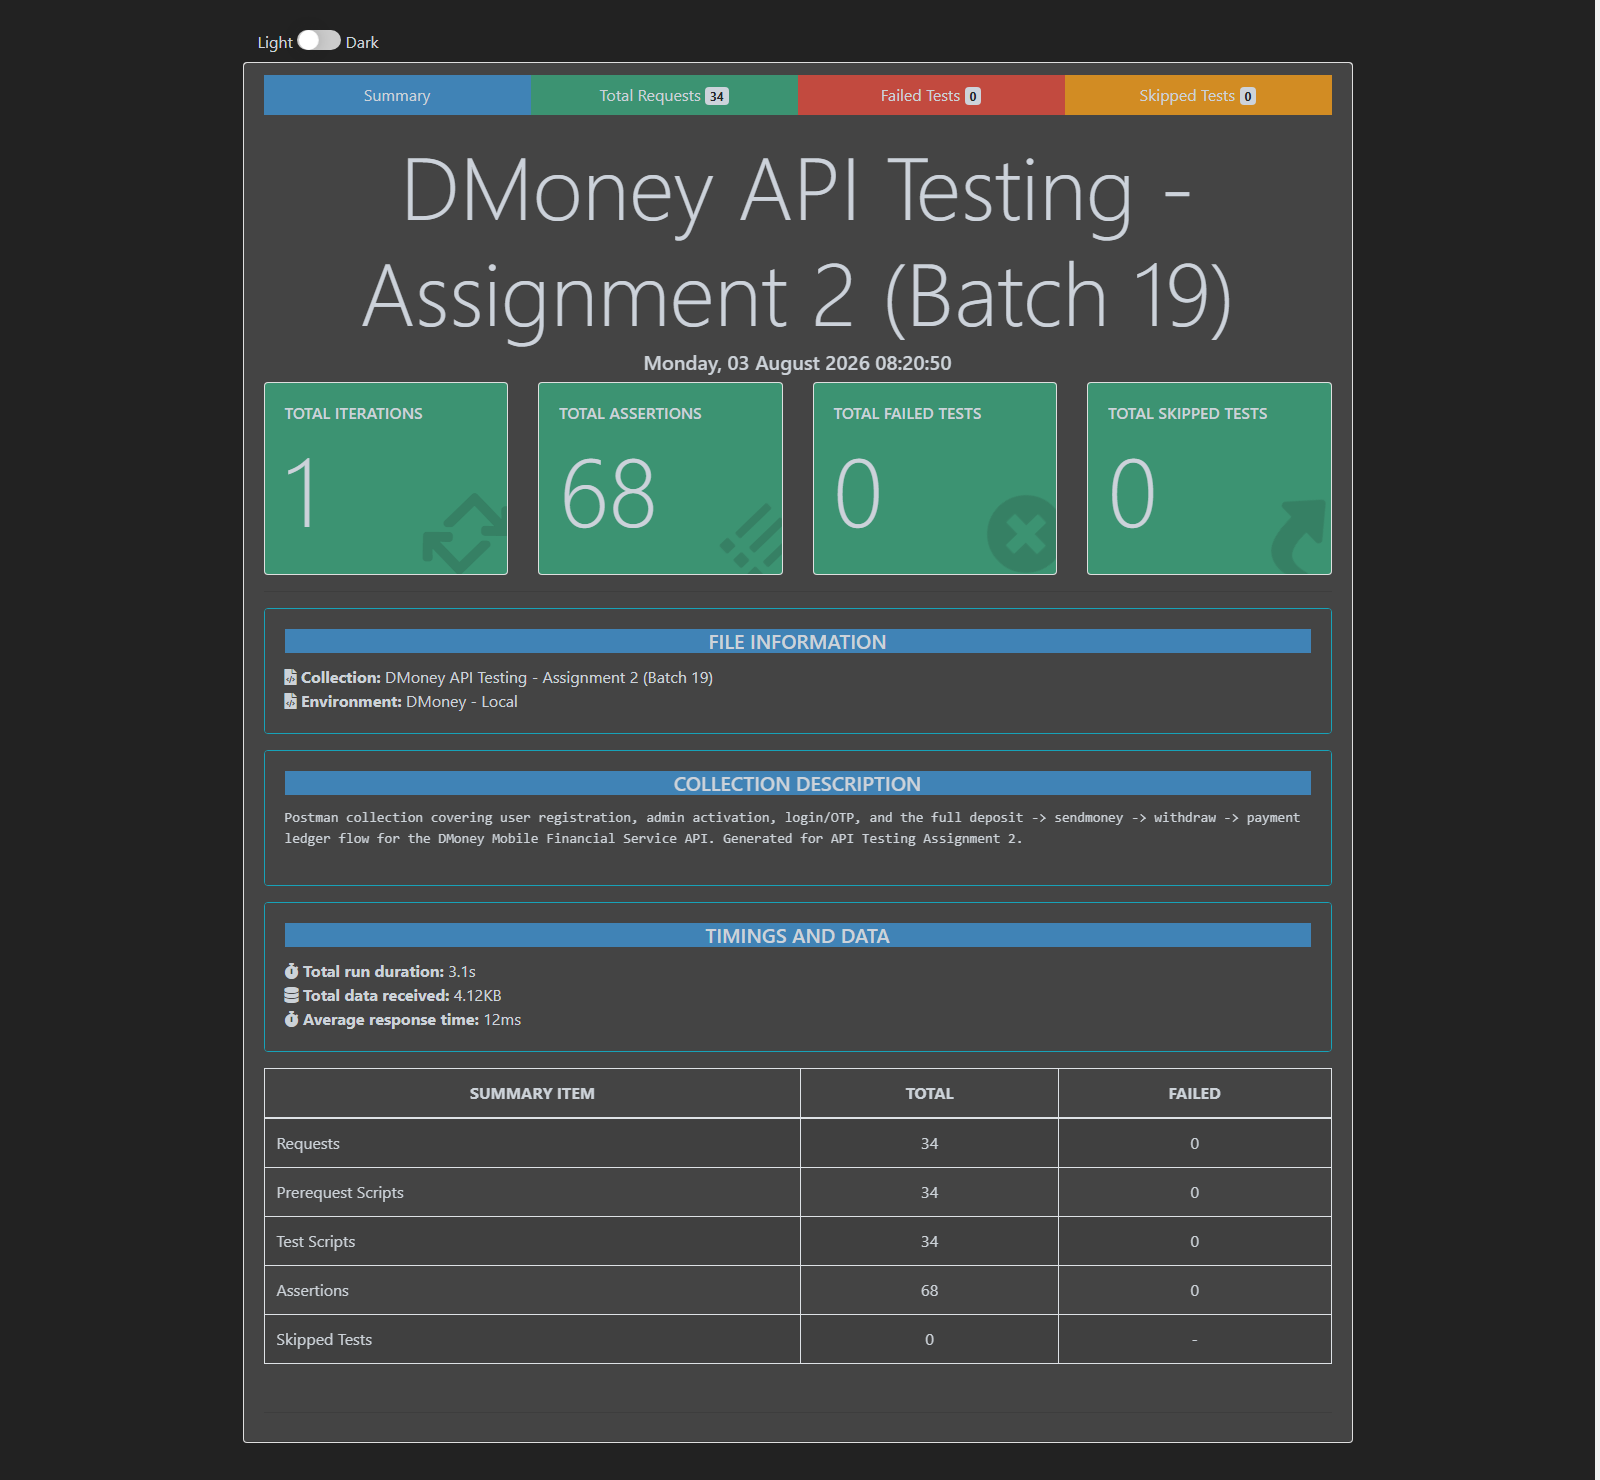
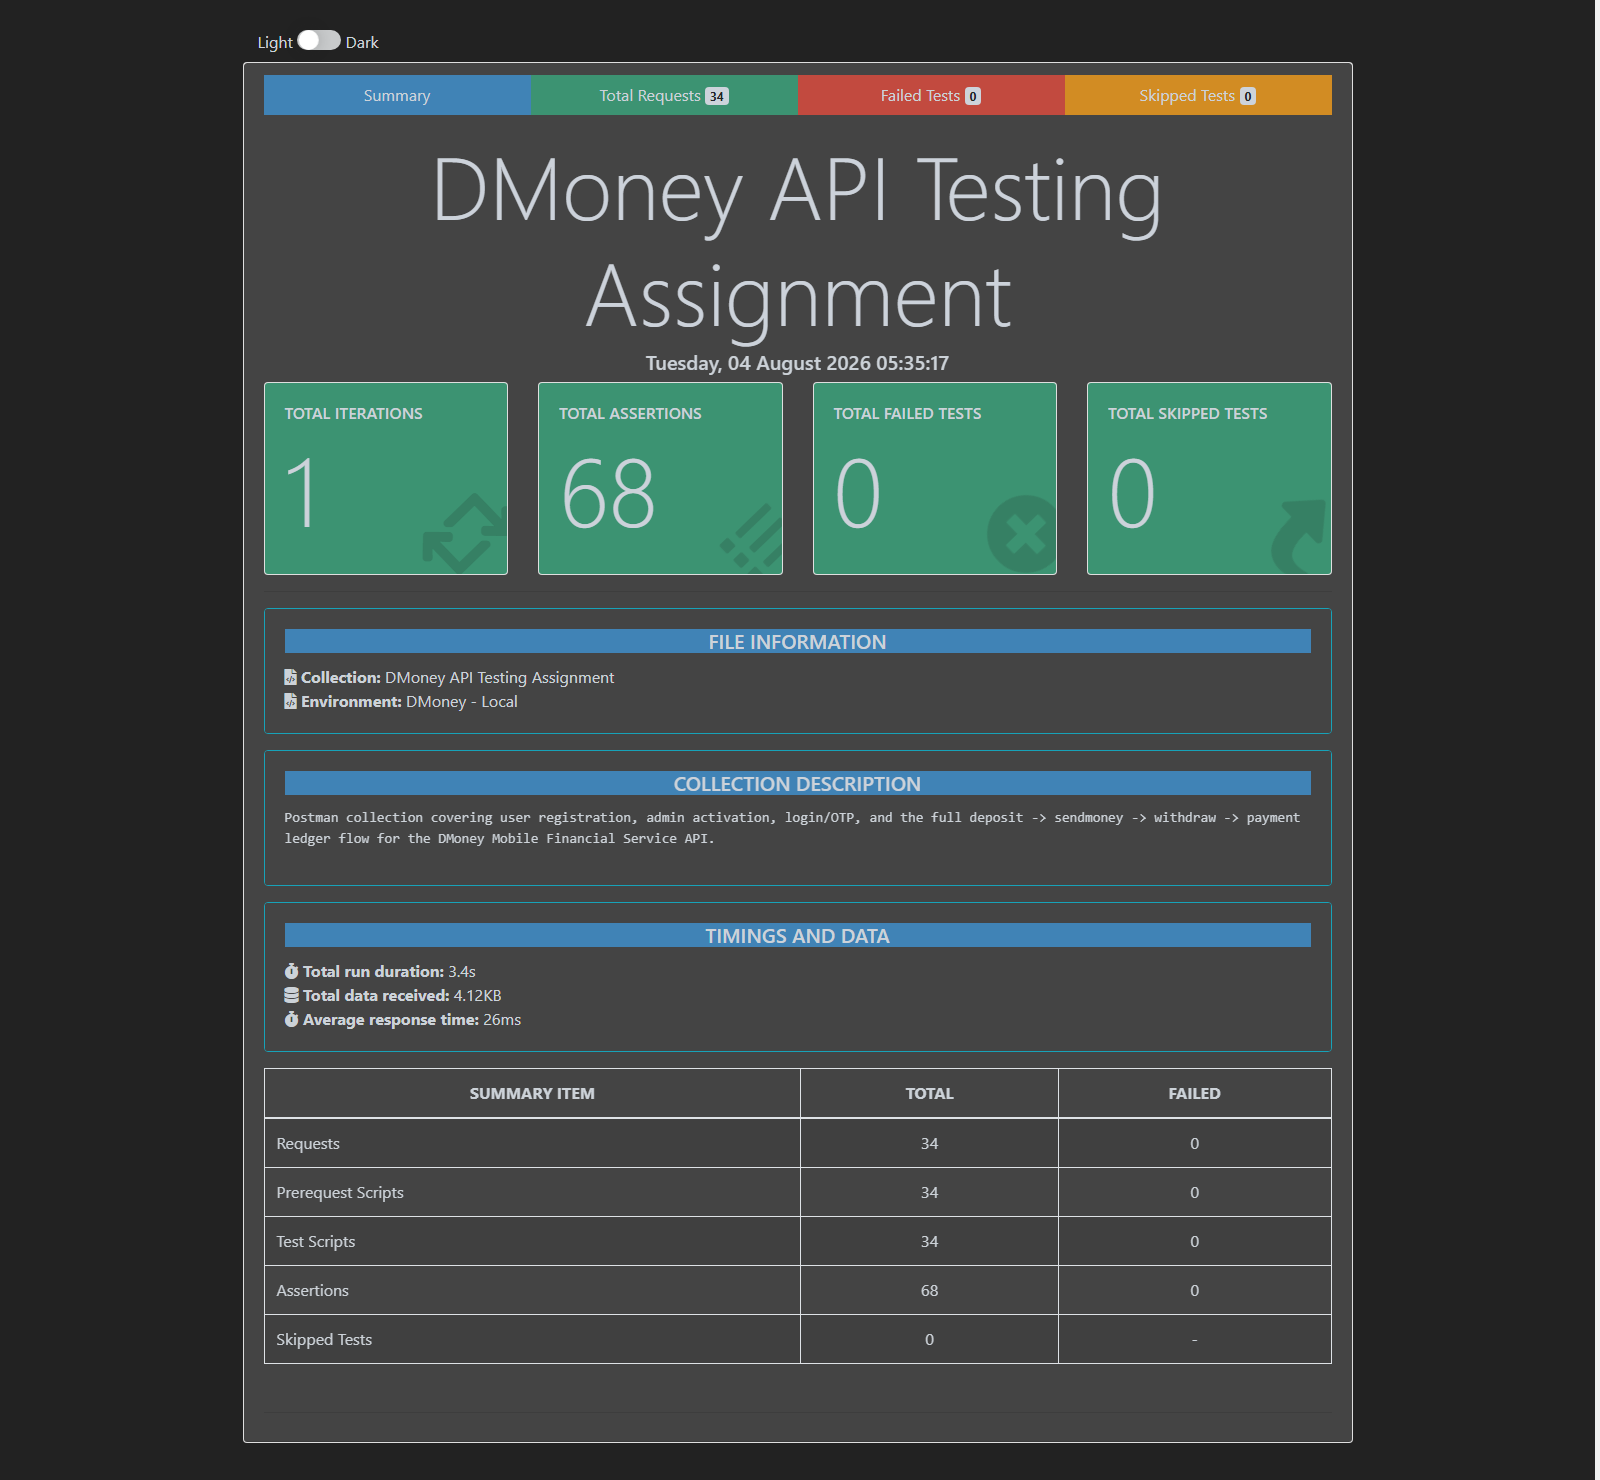
Simplify report/collection title to "DMoney API Testing Assignment"
Drop the "Assignment 2 (Batch 19)" wording from the Newman report title
and collection name so the report screenshot just reads the plain title.

Changed region(s): [[0.2188, 0.0932, 0.7812, 0.2486], [0.3438, 0.4351, 0.4375, 0.4662], [0.5938, 0.5595, 0.625, 0.5905]]

diff --git a/scripts/generate-collection.js b/scripts/generate-collection.js
@@ -562,8 +562,8 @@ const folderTransactions = {
 
 const collection = {
     info: {
-        name: 'DMoney API Testing - Assignment 2 (Batch 19)',
-        description: 'Postman collection covering user registration, admin activation, login/OTP, and the full deposit -> sendmoney -> withdraw -> payment ledger flow for the DMoney Mobile Financial Service API. Generated for API Testing Assignment 2.',
+        name: 'DMoney API Testing Assignment',
+        description: 'Postman collection covering user registration, admin activation, login/OTP, and the full deposit -> sendmoney -> withdraw -> payment ledger flow for the DMoney Mobile Financial Service API.',
         schema: 'https://schema.getpostman.com/json/collection/v2.1.0/collection.json',
         _postman_id: 'dmoney-api-testing-assignment2'
     },
